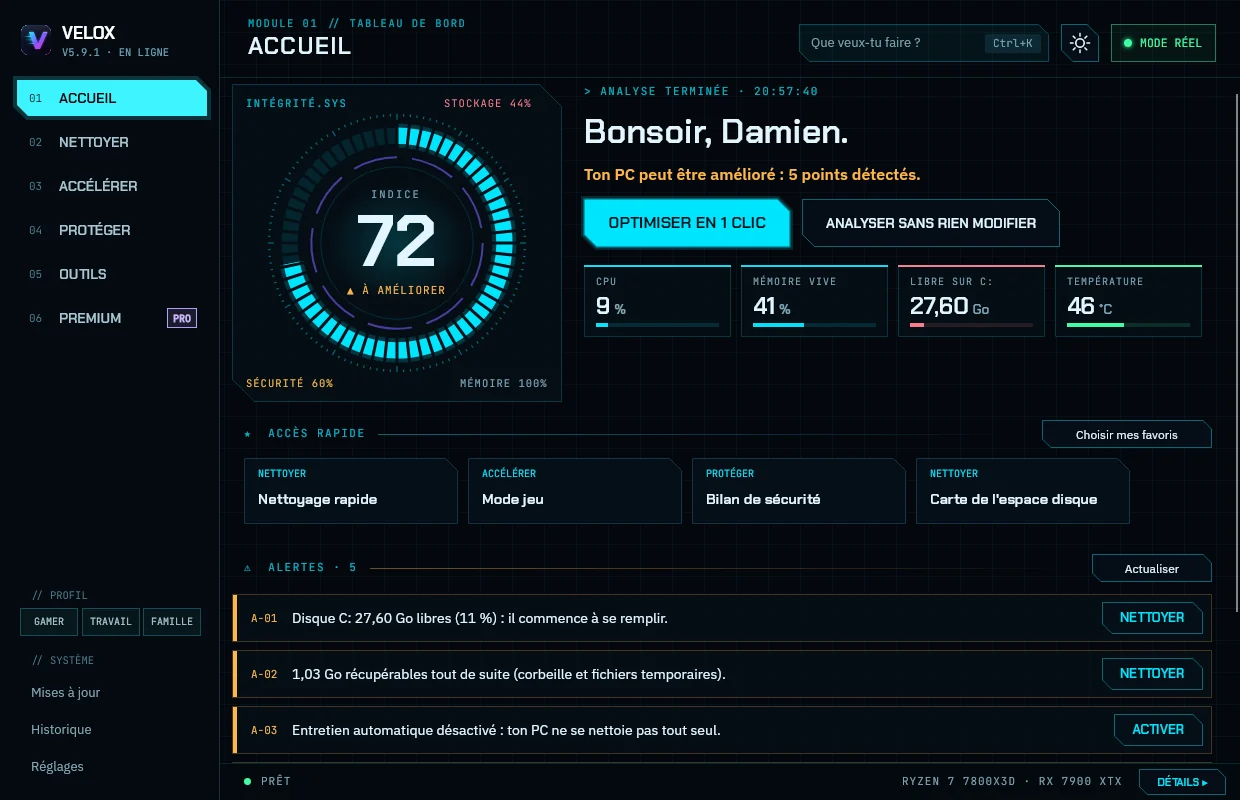
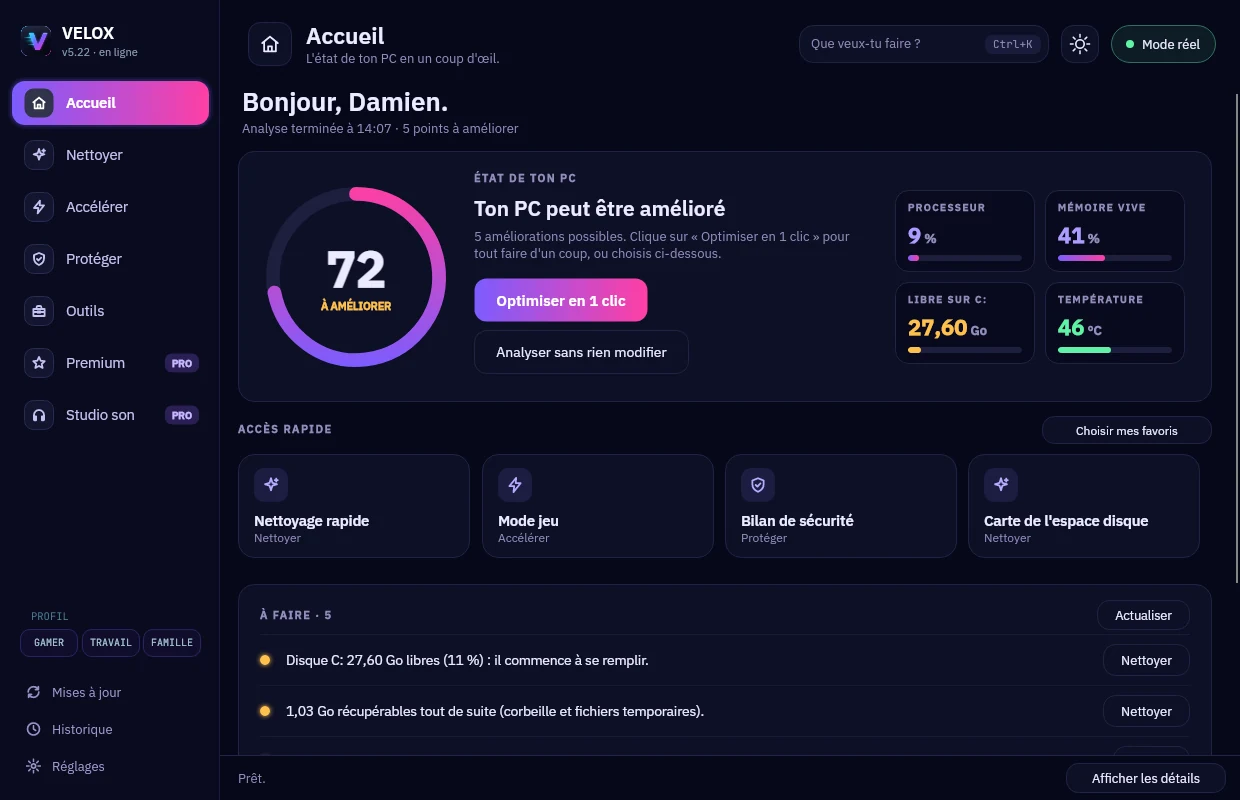
Site : captures du nouveau style arrondi (5.22)
Claude-Session: https://claude.ai/code/session_019eXib9ibtQh7qk6PmhUs3u

diff --git a/docs/index.html b/docs/index.html
@@ -243,12 +243,12 @@ mark.a-completer { background: var(--orange); color: var(--sur-accent); padding:
         <a class="bouton" href="#premium">Premium · 9,99 €/mois</a>
       </div>
       <div class="fiche">
-        <span id="version">Version 5.21</span><span>Windows 10 et 11, 64 bits</span><span>Français · English · Español</span><span>Sans publicité ni pistage</span>
+        <span id="version">Version 5.22</span><span>Windows 10 et 11, 64 bits</span><span>Français · English · Español</span><span>Sans publicité ni pistage</span>
       </div>
     </div>
 
     <figure class="capture-principale coins" style="margin-inline:0">
-      <div class="cadre"><img src="img/accueil.webp" width="1240" height="800" alt="Accueil de Velox 5.9 au style HUD : un anneau segmenté donne l'indice du PC (72 sur 100), avec le bouton « Optimiser en 1 clic », les mesures du processeur, de la mémoire, du disque et de la température, l'accès rapide aux outils favoris et les alertes numérotées, chacune avec son bouton."></div>
+      <div class="cadre"><img src="img/accueil.webp" width="1240" height="800" alt="Accueil de Velox 5.22 au style arrondi : un anneau en dégradé donne l'indice du PC (72 sur 100), avec le bouton « Optimiser en 1 clic », quatre mesures avec leur jauge (processeur, mémoire, disque, température), l'accès rapide en grandes tuiles et la liste « À faire », chaque point avec son bouton."></div>
       <figcaption class="legende"><span>ACCUEIL · le bilan du PC en un coup d'œil</span><span>Chaque action demande votre accord avant de se lancer</span></figcaption>
     </figure>
   </div>
